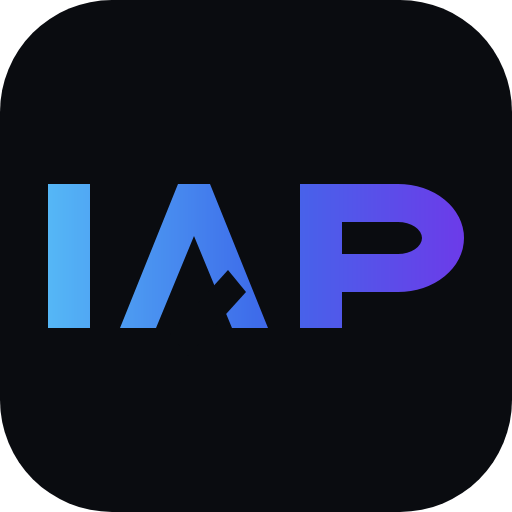
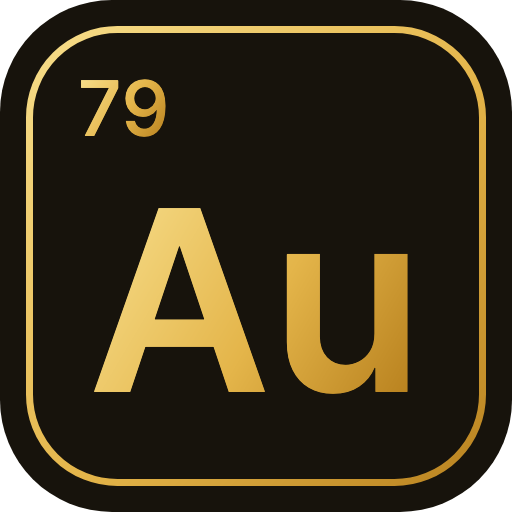
feat(tools): 앱 이름 Aurum 확정 — 일괄 반영 + Au 주기율표 아이콘
- 창 타이틀·메뉴·About·다이얼로그·독 이름(AssemblyName)·.app/.exe·문서 일괄 변경
  (네임스페이스·프로젝트 파일명 PrismOne.Studio, 데이터 디렉터리 ~/.prismone-studio 유지)
- 아이콘 교체: 주기율표 타일 — 다크 배경 + 금 그라데이션 Au + 원자번호 79
  (RenderAppIcon 재작성, icon.png/icon_1024.png/icon.ico 재생성)
- 명명 체계: GUI Aurum · CLI iapdb · 배포 키트 PrismOne DB Kit (STATUS.md §0)

diff --git a/src/PrismOne.Studio/MainWindow.axaml.cs b/src/PrismOne.Studio/MainWindow.axaml.cs
@@ -109,7 +109,7 @@ public partial class MainWindow : Window
         FetchAllButton.IsEnabled = true;
         ExportButton.IsEnabled = true;
         // Golden 타이틀 형식: user@db - Benthic Software: Golden7
-        Title = $"{profile.DisplayName} - IAP Database Manager";
+        Title = $"{profile.DisplayName} - Aurum";
         StatusLabel.Text = $"Connected: {profile.DisplayName}";
 
         await LoadBrowserAsync(profile);
@@ -290,7 +290,7 @@ public partial class MainWindow : Window
             Item("Session Monitor…", () => OnMenuSessionMonitor(this, args)),
             Item("Options…", () => OnMenuOptions(this, args))));
         root.Items.Add(Sub("Help",
-            Item("About IAP Database Manager", () => OnMenuAbout(this, args))));
+            Item("About Aurum", () => OnMenuAbout(this, args))));
         NativeMenu.SetMenu(this, root);
     }
 
@@ -630,7 +630,7 @@ public partial class MainWindow : Window
     {
         try
         {
-            var dir = System.IO.Path.Combine(System.IO.Path.GetTempPath(), "iap-dbm-print");
+            var dir = System.IO.Path.Combine(System.IO.Path.GetTempPath(), "aurum-print");
             System.IO.Directory.CreateDirectory(dir);
             var path = System.IO.Path.Combine(dir, $"{kind}-{DateTime.Now:yyyyMMdd-HHmmss}.html");
             System.IO.File.WriteAllText(path, html, new UTF8Encoding(true));
@@ -704,7 +704,7 @@ public partial class MainWindow : Window
         var no = new Button { Content = "No", MinWidth = 80, MinHeight = 30, IsCancel = true };
         var dialog = new Window
         {
-            Title = "IAP Database Manager",
+            Title = "Aurum",
             Width = 380,
             SizeToContent = SizeToContent.Height,
             CanResize = false,
@@ -1586,51 +1586,68 @@ public partial class MainWindow : Window
         }
     }
 
-    /// <summary>앱 아이콘: IAP 로고 기반 — 검은 라운드 배경 + 파랑→보라 그라데이션 IAP 레터마크.</summary>
+    /// <summary>앱 아이콘: Aurum(Au, 금) — 주기율표 타일. 다크 배경 + 금 그라데이션 "Au" + 원자번호 79.</summary>
     private static void RenderAppIcon(string path)
     {
-        var background = Avalonia.Media.Color.Parse("#0A0C10");
+        var background = Avalonia.Media.Color.Parse("#17130C");
         var canvas = new Canvas { Width = 512, Height = 512 };
+
+        // 금 그라데이션 (밝은 금 → 진한 금, 대각선)
+        var gold = new Avalonia.Media.LinearGradientBrush
+        {
+            StartPoint = new Avalonia.RelativePoint(0, 0, Avalonia.RelativeUnit.Relative),
+            EndPoint = new Avalonia.RelativePoint(1, 1, Avalonia.RelativeUnit.Relative),
+            GradientStops =
+            {
+                new Avalonia.Media.GradientStop(Avalonia.Media.Color.Parse("#F7DE8B"), 0.0),
+                new Avalonia.Media.GradientStop(Avalonia.Media.Color.Parse("#E4B54A"), 0.55),
+                new Avalonia.Media.GradientStop(Avalonia.Media.Color.Parse("#B9821F"), 1.0),
+            },
+        };
+
+        // 타일: 다크 배경 + 가는 금 테두리 (주기율표 원소 칸)
         canvas.Children.Add(new Border
         {
             Width = 512, Height = 512,
             CornerRadius = new Avalonia.CornerRadius(112),
             Background = new Avalonia.Media.SolidColorBrush(background),
         });
-
-        // 로고의 좌→우 그라데이션 (하늘색 → 파랑 → 보라)
-        var gradient = new Avalonia.Media.LinearGradientBrush
+        canvas.Children.Add(new Border
         {
-            StartPoint = new Avalonia.RelativePoint(0, 0.5, Avalonia.RelativeUnit.Relative),
-            EndPoint = new Avalonia.RelativePoint(1, 0.5, Avalonia.RelativeUnit.Relative),
-            GradientStops =
-            {
-                new Avalonia.Media.GradientStop(Avalonia.Media.Color.Parse("#55B7F6"), 0.0),
-                new Avalonia.Media.GradientStop(Avalonia.Media.Color.Parse("#3E6CEA"), 0.5),
-                new Avalonia.Media.GradientStop(Avalonia.Media.Color.Parse("#6C3BE9"), 1.0),
-            },
-        };
-
-        // I + A(counter 포함) + P(counter·왼발 포함) — 한 지오메트리(even-odd)라 그라데이션이 이어진다
-        canvas.Children.Add(new Avalonia.Controls.Shapes.Path
-        {
-            Data = Avalonia.Media.Geometry.Parse(
-                // I
-                "M48,184 L90,184 L90,328 L48,328 Z " +
-                // A 외곽 + 삼각 카운터
-                "M120,328 L178,184 L210,184 L268,328 Z " +
-                "M194,236 L232,328 L156,328 Z " +
-                // P 외곽(넓고 얕은 볼, 스템은 베이스라인까지) + 둥근 카운터
-                "M300,184 L398,184 A66,54 0 0 1 464,238 A66,54 0 0 1 398,292 L342,292 L342,328 L300,328 Z " +
-                "M342,222 L398,222 A24,16 0 0 1 422,238 A24,16 0 0 1 398,254 L342,254 Z"),
-            Fill = gradient,
+            Width = 512 - 2 * 26, Height = 512 - 2 * 26,
+            [Canvas.LeftProperty] = 26.0,
+            [Canvas.TopProperty] = 26.0,
+            CornerRadius = new Avalonia.CornerRadius(88),
+            BorderBrush = gold,
+            BorderThickness = new Avalonia.Thickness(7),
         });
 
-        // A 의 슬래시 컷 — 왼쪽 다리는 남기고 안쪽만 비스듬히 잘라낸다
-        canvas.Children.Add(new Avalonia.Controls.Shapes.Path
+        var inter = new Avalonia.Media.FontFamily("fonts:Inter#Inter");
+
+        // 원자번호 79 — 타일 좌상단
+        canvas.Children.Add(new TextBlock
         {
-            Data = Avalonia.Media.Geometry.Parse("M170,334 L228,270 L246,292 L188,356 Z"),
-            Fill = new Avalonia.Media.SolidColorBrush(background),
+            Text = "79",
+            FontFamily = inter,
+            FontSize = 76,
+            FontWeight = Avalonia.Media.FontWeight.Medium,
+            Foreground = gold,
+            [Canvas.LeftProperty] = 78.0,
+            [Canvas.TopProperty] = 62.0,
+        });
+
+        // 원소기호 Au — 중앙보다 살짝 아래 (주기율표 배치)
+        canvas.Children.Add(new TextBlock
+        {
+            Text = "Au",
+            FontFamily = inter,
+            FontSize = 252,
+            FontWeight = Avalonia.Media.FontWeight.SemiBold,
+            Foreground = gold,
+            Width = 512,
+            TextAlignment = Avalonia.Media.TextAlignment.Center,
+            [Canvas.LeftProperty] = 0.0,
+            [Canvas.TopProperty] = 148.0,
         });
 
         canvas.Measure(new Avalonia.Size(512, 512));
@@ -1665,7 +1682,7 @@ public partial class MainWindow : Window
     {
         var about = new Window
         {
-            Title = "About IAP Database Manager",
+            Title = "About Aurum",
             Width = 400,
             Height = 180,
             WindowStartupLocation = WindowStartupLocation.CenterOwner,
@@ -1676,7 +1693,7 @@ public partial class MainWindow : Window
                 Spacing = 6,
                 Children =
                 {
-                    new TextBlock { Text = "IAP Database Manager", FontSize = 16, FontWeight = Avalonia.Media.FontWeight.SemiBold },
+                    new TextBlock { Text = "Aurum", FontSize = 16, FontWeight = Avalonia.Media.FontWeight.SemiBold },
                     new TextBlock { Text = "Golden 스타일 PostgreSQL 쿼리 툴 (IAP/PrismOne)" },
                     new TextBlock
                     {

diff --git a/src/PrismOne.Studio/FavoritesDialog.axaml.cs b/src/PrismOne.Studio/FavoritesDialog.axaml.cs
@@ -41,7 +41,7 @@ public partial class FavoritesDialog : Window
 
         if (!string.IsNullOrWhiteSpace(seedSql))
         {
-            Title = "Add to Favorites - IAP Database Manager";
+            Title = "Add to Favorites - Aurum";
             SqlBox.Text = seedSql;
             NameBox.Text = SuggestName(seedSql);
             StatusText.Text = "이름을 확인하고 Save 를 누르세요.";

diff --git a/docs/STATUS.md b/docs/STATUS.md
@@ -10,6 +10,15 @@
 | 2 | DB 초기 설치 (IAP 제품용) | **미착수** — CLI 스캐폴드만 존재 |
 | 3 | 설치된 DB 패치/업그레이드 | **미착수** |
 
+## 0. 이름 (2026-08-03 확정)
+
+- **GUI = Aurum** (금 Au — "Golden 의 후계자"라는 서사. 어셈블리명·창 타이틀·.app/.exe·
+  아이콘까지 반영. 아이콘은 주기율표 타일: 다크 배경 + 금 그라데이션 Au + 원자번호 79,
+  `IAPDM_RENDER_ICON` 으로 재생성)
+- **CLI = iapdb**, 배포 키트(iapdb + sql/ + patches/) = **PrismOne DB Kit**
+- 네임스페이스·프로젝트 파일명은 PrismOne.Studio 유지 (외부 노출 없음),
+  사용자 데이터 디렉터리도 `~/.prismone-studio/` 유지 (기존 설정 호환)
+
 ## 1. Golden 파리티 현황
 
 구현 완료 (근거: `GOLDEN_BEHAVIOR.md` 의 바이너리 추출 명세):
@@ -141,9 +150,9 @@ DB 로 직접 지원**해야 한다. 착수 시점에 검토할 것:
      의심하던 `Cells[i]` TwoWay 바인딩은 실제로 **안 써지고 있었고**(§1 의
      Run and Edit 항목 참조) 인덱서 우회로 고친 뒤 전 항목 PASS
 - **실행**: 개발 중엔 `dotnet run --project src/PrismOne.Studio`,
-  배포 확인은 macOS `sh packaging/macos/make-app.sh` → `dist/IAP Database Manager.app`,
+  배포 확인은 macOS `sh packaging/macos/make-app.sh` → `dist/Aurum.app`,
   Windows `powershell -ExecutionPolicy Bypass -File packaging/windows/make-app.ps1`
-  → `dist/IAP Database Manager/IAP Database Manager.exe` (self-contained 단일 exe, 약 48MB)
+  → `dist/Aurum/Aurum.exe` (self-contained 단일 exe, 약 48MB)
 - **Windows 주의**: PowerShell 5.1 은 BOM 없는 UTF-8 .ps1 을 CP949 로 읽어 한글 주석이
   깨지면서 파싱이 어긋난다. `packaging/windows/*.ps1` 은 **UTF-8 BOM 으로 저장**할 것
 - **자가 검증 (중요)**: 화면 회귀는 스크린샷 모드로 확인한다.

diff --git a/docs/USER_GUIDE.md b/docs/USER_GUIDE.md
@@ -1,4 +1,4 @@
-# IAP Database Manager 사용법
+# Aurum 사용법
 
 Oracle 시절 Golden 을 대체하는 PRISMONE(PostgreSQL)용 쿼리 툴입니다.
 Golden 을 쓰던 손버릇 그대로 쓰이도록 만들었습니다.
@@ -7,8 +7,8 @@ Golden 을 쓰던 손버릇 그대로 쓰이도록 만들었습니다.
 
 | 방법 | 용도 |
 |---|---|
-| `tools/dist/IAP Database Manager.app` | macOS 정식 실행 (독에 이름/아이콘 표시). `sh tools/packaging/macos/make-app.sh` 로 생성 |
-| `tools/dist/IAP Database Manager/IAP Database Manager.exe` | Windows 정식 실행 (.NET 설치 불필요한 단일 exe). `powershell -ExecutionPolicy Bypass -File tools/packaging/windows/make-app.ps1` 로 생성 |
+| `tools/dist/Aurum.app` | macOS 정식 실행 (독에 이름/아이콘 표시). `sh tools/packaging/macos/make-app.sh` 로 생성 |
+| `tools/dist/Aurum/Aurum.exe` | Windows 정식 실행 (.NET 설치 불필요한 단일 exe). `powershell -ExecutionPolicy Bypass -File tools/packaging/windows/make-app.ps1` 로 생성 |
 | `cd tools && dotnet run --project src/PrismOne.Studio` | 개발 실행 |
 
 앱을 켜면 빈 Query 1 탭이 있는 메인 창이 뜨고 그 위로 **로그온 창이 바로 열립니다**(Golden 과 동일).

diff --git a/README.md b/README.md
@@ -1,7 +1,7 @@
-# tools — IAP Database Manager
+# tools — Aurum
 
 PRISMONE(PostgreSQL) 데이터베이스를 다루는 데스크톱/CLI 도구 모음입니다. .NET 10 (C#) 단일 솔루션.
-데스크톱 앱(제품명 **IAP Database Manager**)은 Oracle 시절 쓰던 Benthic Golden 의 UI·동작을 재현합니다.
+데스크톱 앱(제품명 **Aurum**)은 Oracle 시절 쓰던 Benthic Golden 의 UI·동작을 재현합니다.
 
 - **사용법: [docs/USER_GUIDE.md](docs/USER_GUIDE.md)** · **진행 상황·다음 작업: [docs/STATUS.md](docs/STATUS.md)**
 - Golden 동작 명세: [docs/GOLDEN_BEHAVIOR.md](docs/GOLDEN_BEHAVIOR.md) · 파리티 계획: [docs/STUDIO_PLAN.md](docs/STUDIO_PLAN.md)
@@ -45,12 +45,12 @@ dotnet test tests/PrismOne.Db.Core.Tests
 배포 패키지:
 
 ```bash
-sh packaging/macos/make-app.sh          # → dist/IAP Database Manager.app
+sh packaging/macos/make-app.sh          # → dist/Aurum.app
 ```
 
 ```powershell
 powershell -ExecutionPolicy Bypass -File packaging/windows/make-app.ps1
-# → dist/IAP Database Manager/IAP Database Manager.exe (self-contained 단일 exe)
+# → dist/Aurum/Aurum.exe (self-contained 단일 exe)
 #   + dist/IAPDatabaseManager-win-x64-<버전>.zip
 ```
 

diff --git a/docs/PG_FEATURES.md b/docs/PG_FEATURES.md
@@ -1,4 +1,4 @@
-# PostgreSQL 고유 기능 · pgAdmin 기능 분석 → IAP Database Manager 적용 계획
+# PostgreSQL 고유 기능 · pgAdmin 기능 분석 → Aurum 적용 계획
 
 Golden 파리티(GOLDEN_BEHAVIOR.md)가 UI/UX 의 기준이라면, 이 문서는 **PostgreSQL 이라서
 가능한/필요한 것**과 **pgAdmin(사실상 PG 표준 GUI)이 제공하는 기능** 중 우리 툴에
